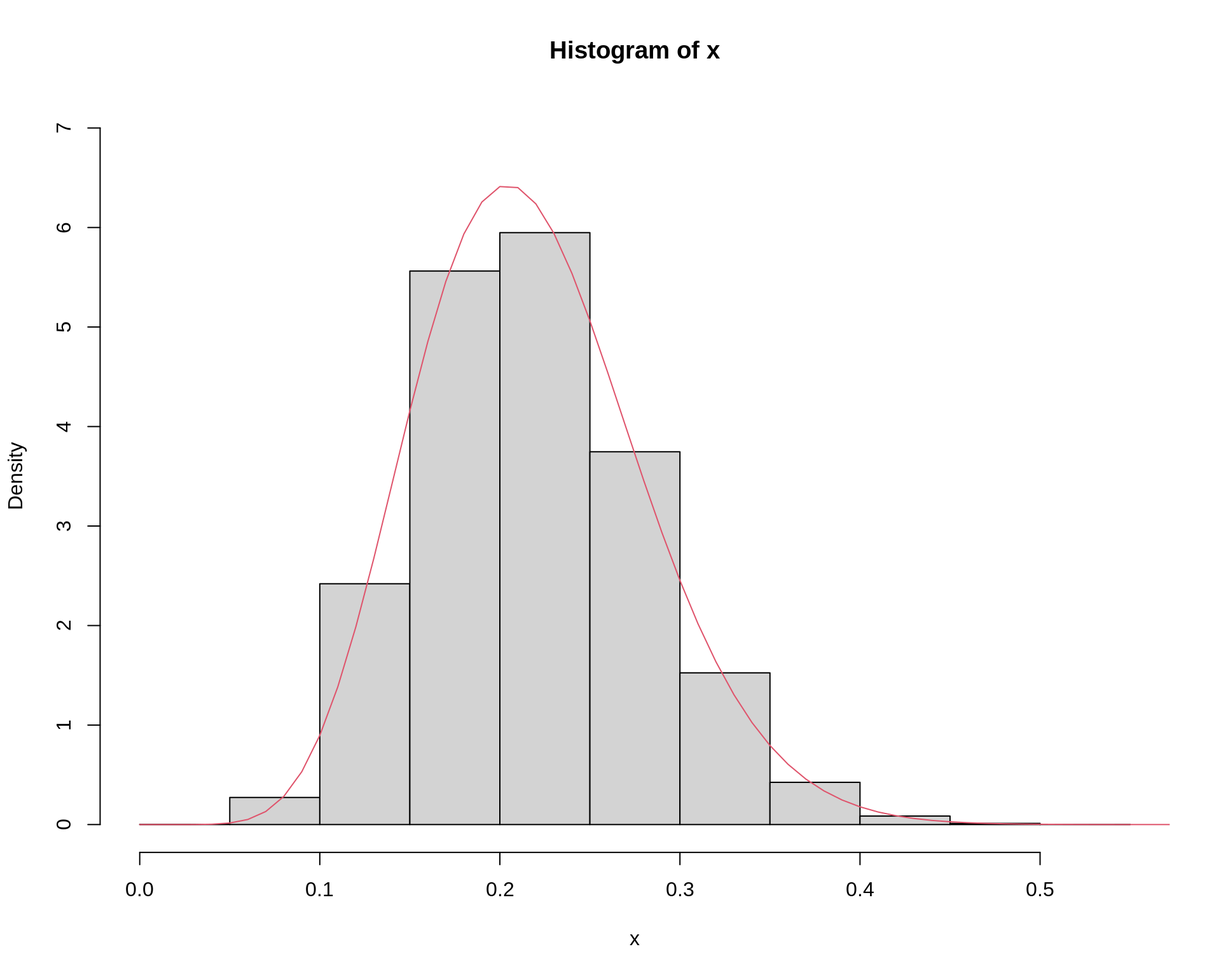
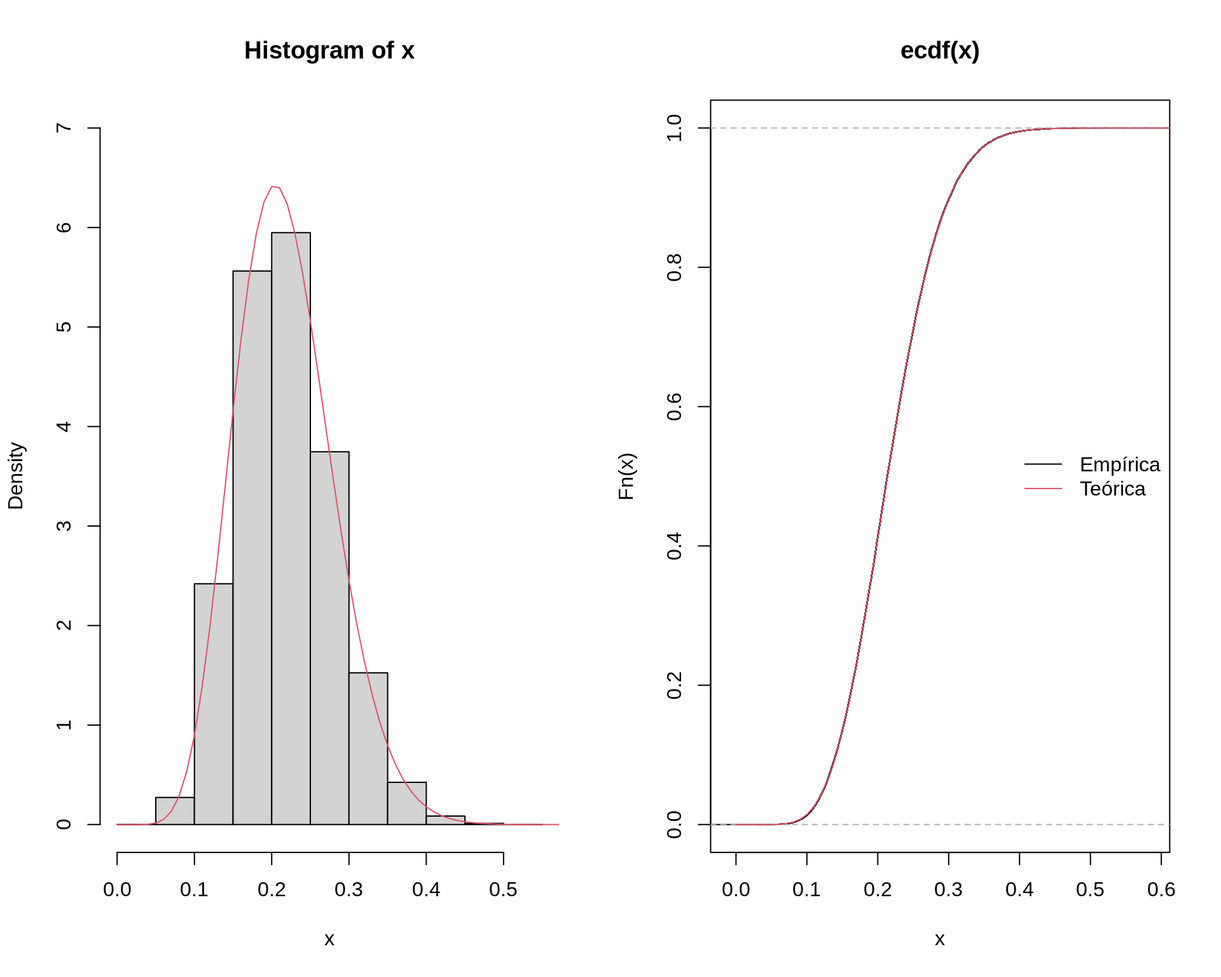
deploy: f7cb1217ea2a536413e76da58a42762f9a938bf3

diff --git a/07_MC_aprox.html b/07_MC_aprox.html
@@ -439,7 +439,7 @@ theta.hat &lt;- exp(-x)
 P[X&gt;2] = \int_2^{\infty} e^{-x} dx
 \]</span></p>
 <p>Nesse caso, a integração simples de Monte Carlo não é útil, pois não é possível que o limite de integração seja indefinido.</p>
-<p>Na verdade, podemos pensar em uma aproximação <strong>grosseira</strong>, supondo que vamos amostrar de <span class="math inline">\(X \sim \text{U}(2, \infty)\)</span>, onde podemos aproximar o valor de <span class="math inline">\(\infty\)</span> por um número grande. Por exemplo:</p>
+<p>Na verdade, <strong>poderíamos</strong> pensar em uma aproximação <strong>grosseira</strong>, supondo que vamos amostrar de <span class="math inline">\(X \sim \text{U}(2, \infty)\)</span>, onde podemos aproximar o valor de <span class="math inline">\(\infty\)</span> por um número grande. Por exemplo:</p>
 <pre class="r"><code>## Obtem m valores da U(2,Inf)
 m &lt;- 10000
 a &lt;- 2; b &lt;- 1e5
@@ -455,7 +455,7 @@ theta.hat &lt;- exp(-x)
 <pre class="r"><code>## Usando a exponencial
 pexp(2, 1, lower.tail = FALSE)</code></pre>
 <pre><code># [1] 0.1353353</code></pre>
-<p>Note que o valor estimado nesse caso está longe do velor correto, pois estamos adotando um procedimento completamente arbitrário.</p>
+<p>Note que o valor estimado nesse caso está longe do velor correto, pois estamos adotando um procedimento <strong>completamente arbitrário</strong>.</p>
 </div>
 <div id="exemplo-beta" class="section level3">
 <h3><span class="header-section-number">1.1.2</span> Exemplo (beta)</h3>
@@ -496,12 +496,12 @@ pbeta(0.2, a, b, lower.tail = FALSE)</code></pre>
 <div id="distribuições-aproximadas" class="section level1">
 <h1><span class="header-section-number">2</span> Distribuições aproximadas</h1>
 <p>Note que nos dois exemplos acima, para cada problema de cálculo de probabilidades (integrais), precisamos aplicar o método de Monte Carlo.</p>
-<p>No entanto, suponha que precisamos fazer diversos cálculos sob uma determinada VA. Ao invés de aplicar esse método para cada cálculo, podemos pensar que seria mais fácil se pudessemos obter uma amostra da distribuição de interesse. A partir desta distribuição, qualquer cálculo necessário pode ser derivado facilmente.</p>
-<p>Essa é a ideia dos métodos a seguir. O primeiro deles, a amostragem por aceitação-rejeição já foi visto no contexto de geração de números aleatórios. A mesma ideia será usada aqui, mas agora usaremos a amostra gerada da distribuição de interesse para resolver problemas de integração.</p>
-<p>O segundo método, o de re-amostragem por importância, pode ser visto como uma extensão do método de amostragem por importância, que vimos no contexto de generalização do método simples de integração de Monte Carlo. Nesse caso, usaremos as mesmas ideias para gerar uma amostra da distribuição de interesse, e não apenas resolver uma integral.</p>
+<p>No entanto, suponha que precisamos fazer diversos cálculos sob uma determinada VA. Ao invés de aplicar esse método para cada cálculo, podemos pensar que seria mais fácil se pudessemos obter uma <strong>amostra</strong> da distribuição de interesse. A partir desta <strong>distribuição</strong>, qualquer cálculo necessário pode ser derivado facilmente.</p>
+<p>Essa é a ideia dos métodos a seguir. O primeiro deles, a amostragem por <strong>aceitação-rejeição</strong> já foi visto no contexto de geração de números aleatórios. A mesma ideia será usada aqui, mas agora <strong>usaremos a amostra gerada da distribuição de interesse para resolver problemas de integração</strong>.</p>
+<p>O segundo método, o de <strong>re-amostragem por importância</strong>, pode ser visto como uma extensão do método de amostragem por importância, que vimos no contexto de generalização do método simples de integração de Monte Carlo. Nesse caso, usaremos as mesmas ideias para <strong>gerar uma amostra da distribuição de interesse</strong>, e não apenas resolver uma integral.</p>
 <div id="amostragem-por-rejeição" class="section level2">
 <h2><span class="header-section-number">2.1</span> Amostragem por rejeição</h2>
-<p>A ideia inicial do método é exatamente igual ao que já foi visto anteriormente no contexto de geração de números aleatórios de uma distribuição alvo <span class="math inline">\(f\)</span>.</p>
+<p>A ideia inicial do método é exatamente <strong>igual ao que já foi visto anteriormente</strong> no contexto de geração de números aleatórios de uma distribuição alvo <span class="math inline">\(f\)</span>.</p>
 <p>O seguinte algoritmo permite gerar números aleatórios de uma distribuição de probabilidade caracterizada pela função densidade <span class="math inline">\(f\)</span>:</p>
 <ol style="list-style-type: decimal">
 <li>Gerar <span class="math inline">\(y\)</span> como sendo uma ocorrência da variável aleatória proveniente de uma distribuição com densidade <span class="math inline">\(g\)</span>, que “encapsula” a distribuição de <span class="math inline">\(f\)</span>.</li>
@@ -521,7 +521,7 @@ M \geq \max_x \frac{f(x)}{g(x)}
 <p><span class="math display">\[
 \theta = \int_2^4 e^{-x} dx
 \]</span></p>
-<p>Sabemos que a função acima é uma <span class="math inline">\(\text{Exp(1)}\)</span>. Ao invés de usar o método de integração de Monte Carlo, vamos obter uma amostra desta distribuição, e, com ela, calcularemos a integral desejada.</p>
+<p>Sabemos que a função acima é uma <span class="math inline">\(\text{Exp(1)}\)</span>. Ao invés de usar o método de integração de Monte Carlo, vamos <strong>obter uma amostra desta distribuição</strong>, e, com ela, calcularemos a integral desejada.</p>
 <p>Por simplificação, usaremos como distribuição proposta uma <span class="math inline">\(\text{Exp}(0.5)\)</span>. Nesse caso, obtemos o valor de <span class="math inline">\(M\)</span> como</p>
 <pre class="r"><code>(M &lt;- optimize(f = function(x) {dexp(x, 1)/dexp(x, .5)},
                interval = c(0, 50), maximum = TRUE)$objective)</code></pre>
@@ -540,7 +540,6 @@ g &lt;- function(x) dexp(x, 0.5)
 N &lt;- 1e5
 x &lt;- numeric(N)
 i &lt;- 1
-j &lt;- 1
 while(i &lt;= N) {
     y &lt;- rexp(1, 0.5)
     u &lt;- runif(1)
@@ -549,12 +548,19 @@ while(i &lt;= N) {
         x[i] &lt;- y
         i &lt;- i + 1
     }
-    j &lt;- j + 1
 }
+## Tamanho da amostra
 length(x)</code></pre>
 <pre><code># [1] 100000</code></pre>
-<pre class="r"><code>hist(x, freq = FALSE, ylim = c(0, 1))
-curve(dexp(x, 1), add = TRUE, from = 0, to = 10, col = 2)</code></pre>
+<pre class="r"><code>## Visualização da amostra
+par(mfrow = c(1, 2))
+hist(x, freq = FALSE, ylim = c(0, 1))
+curve(dexp(x, 1), add = TRUE, from = 0, to = 10, col = 2)
+plot(ecdf(x))
+curve(pexp(x, 1), add = TRUE, from = 0, to = 10, col = 2)
+legend(&quot;right&quot;, legend = c(&quot;Empírica&quot;, &quot;Teórica&quot;),
+       lty = 1, col = 1:2, bty = &quot;n&quot;)
+par(mfrow = c(1, 1))</code></pre>
 <p><img src="figures/07_MC_aprox/unnamed-chunk-9-1.png" width="80%" style="display: block; margin: auto;" /></p>
 <p>Como agora temos a distribuição completa da <span class="math inline">\(\text{Exp}(1)\)</span>, podemos obter qualquer probabilidade (ou integral) aproximada, simplesmente através das contagens de valores no intervalo especificado. Note que a integral da distribuição, ou seja, <span class="math inline">\(\int_0^{\infty} f(x) dx\)</span> deve fechar em <strong>aproximadamente</strong> 1:</p>
 <pre class="r"><code>sum(x &gt; 0 &amp; x &lt;= max(x))/N</code></pre>
@@ -586,7 +592,7 @@ I(X \leq x) =
 </div>
 <div id="exemplo-beta-1" class="section level3">
 <h3><span class="header-section-number">2.1.2</span> Exemplo (beta)</h3>
-<p>Voltando ao exemplo de <span class="math inline">\(X \sim \text{Beta}(a=9.39, b=33.67)\)</span>, queremos calcular <span class="math inline">\(P[0.3 &lt; X &lt; 0.5]\)</span>, mas agora através da obtenção de uma amostra completa desta distribuição.</p>
+<p>Voltando ao exemplo de <span class="math inline">\(X \sim \text{Beta}(a=9.39, b=33.67)\)</span>, queremos calcular <span class="math inline">\(P[0.3 &lt; X &lt; 0.5]\)</span>, mas agora através da obtenção de uma <strong>amostra completa desta distribuição</strong>.</p>
 <p>Usando o método de aceitação-rejeição, vamos usar como distribuição proposta uma <span class="math inline">\(\text{U}(0,1)\)</span>. Portanto:</p>
 <pre class="r"><code>a &lt;- 9.39; b &lt;- 33.67
 (M &lt;- optimize(f = function(x) {dbeta(x, a, b)/dunif(x)},
@@ -606,7 +612,6 @@ g &lt;- function(x) dunif(x)
 N &lt;- 1e5
 x &lt;- numeric(N)
 i &lt;- 1
-j &lt;- 1
 while(i &lt;= N) {
     y &lt;- runif(1)
     u &lt;- runif(1)
@@ -615,14 +620,22 @@ while(i &lt;= N) {
         x[i] &lt;- y
         i &lt;- i + 1
     }
-    j &lt;- j + 1
 }
+## Tamanho da amostra
 length(x)</code></pre>
 <pre><code># [1] 100000</code></pre>
-<pre class="r"><code>sum(x &gt;= 0 &amp; x &lt;= 1)/N</code></pre>
+<pre class="r"><code>## Integral
+sum(x &gt;= 0 &amp; x &lt;= 1)/N</code></pre>
 <pre><code># [1] 1</code></pre>
-<pre class="r"><code>hist(x, freq = FALSE, ylim = c(0, 7))
-curve(dbeta(x, a, b), add = TRUE, from = 0, to = 1, col = 2)</code></pre>
+<pre class="r"><code>## Visualização da amostra
+par(mfrow = c(1, 2))
+hist(x, freq = FALSE,  ylim = c(0, 7))
+curve(dbeta(x, a,  b), add = TRUE, from = 0, to = 1, col = 2)
+plot(ecdf(x))
+curve(pbeta(x, a,  b), add = TRUE, from = 0, to = 1, col = 2)
+legend(&quot;right&quot;, legend = c(&quot;Empírica&quot;, &quot;Teórica&quot;),
+       lty = 1, col = 1:2, bty = &quot;n&quot;)
+par(mfrow = c(1, 1))</code></pre>
 <p><img src="figures/07_MC_aprox/unnamed-chunk-15-1.png" width="80%" style="display: block; margin: auto;" /></p>
 <p>Agora, podemos calcular qualquer probabilidade. Por exemplo:</p>
 <pre class="r"><code>## P[0.3 &lt; X &lt; 0.5]
@@ -639,10 +652,10 @@ sum(x &gt; 0.2)/N</code></pre>
 </div>
 <div id="re-amostragem-por-importância" class="section level2">
 <h2><span class="header-section-number">2.2</span> Re-amostragem por importância</h2>
-<p>O método de re-amostragem por importância (SIR - <em>Sampling Importance Resampling</em>) é uma alternativa ao método de aceitação-rejeição quando não é possível determinar um valor razoável para <span class="math inline">\(M\)</span>. A essência do algoritmo é amostrar valores segundo pesos que são computados para cada um deles.</p>
-<p>Veremos que o método nada mais é do que uma extensão do método de amostragem por importância para aproximação de integrais. No entanto, o objetivo aqui também é obter a distribuição completa da densidade alvo, e, com isso, calcular quantidades de interesse.</p>
-<p>O método de re-amostragem por importância é também muito utilizado no contexto de inferência bayesiana, na obtenção de distribuições posteriores de parâmetros.</p>
-<p>Lembrando que, na amsotrgem por importância, temos o seguinte cenário. Suponha que <span class="math inline">\(X\)</span> seja uma VA com densidade <span class="math inline">\(f(x)\)</span>. Seja <span class="math inline">\(Y\)</span> a VA <span class="math inline">\(g(X)/f(X)\)</span>, então <span class="math display">\[
+<p>O método de re-amostragem por importância (SIR - <em>Sampling Importance Resampling</em>) é uma alternativa ao método de aceitação-rejeição <strong>quando não é possível determinar um valor razoável para</strong> <span class="math inline">\(M\)</span>. A essência do algoritmo é amostrar valores segundo pesos que são computados para cada um deles.</p>
+<p>Veremos que o método nada mais é do que uma <strong>extensão do método de amostragem por importância para aproximação de integrais</strong>. No entanto, o objetivo aqui também é obter a distribuição completa da densidade alvo, e, com isso, calcular quantidades de interesse.</p>
+<p>O método de re-amostragem por importância é também muito utilizado no contexto de <strong>inferência bayesiana</strong>, na obtenção de distribuições posteriores de parâmetros.</p>
+<p>Lembrando que, na <strong>amsotrgem por importância</strong>, temos o seguinte cenário. Suponha que <span class="math inline">\(X\)</span> seja uma VA com densidade <span class="math inline">\(f(x)\)</span>. Seja <span class="math inline">\(Y = g(X)/f(X)\)</span>, então <span class="math display">\[
 \int g(x) dx = \int \frac{g(x)}{f(x)} f(x) dx = \text{E}[Y]
 \]</span> Com isso, podemos estimar <span class="math inline">\(\text{E}[Y]\)</span> como uma integração simples de Monte Carlo, ou seja, <span class="math display">\[
 \frac{1}{m}\sum_{i=1}^{m} Y_i = \frac{1}{m}\sum_{i=1}^{m}
@@ -676,19 +689,24 @@ pexp(2, 1, lower.tail = FALSE)</code></pre>
 </div>
 <p>O algoritmo do método de <strong>re-amostragem por importância</strong> é uma extensão do algoritmo anterior e consiste nos seguintes passos:</p>
 <ol style="list-style-type: decimal">
-<li>(<em>Amostragem</em>) Gerar uma amostra de <span class="math inline">\(m\)</span> observações independentes da função de importância <span class="math inline">\(f(x)\)</span>, <span class="math inline">\(\{x_1, \ldots, x_m\}\)</span>.</li>
+<li>(<strong>Amostragem</strong>) Gerar uma amostra de <span class="math inline">\(m\)</span> observações independentes da função de importância <span class="math inline">\(f(x)\)</span>, <span class="math inline">\(\{x_1, \ldots, x_m\}\)</span>.</li>
 <li>Calcular os <strong>pesos</strong> <span class="math display">\[
 w(x_i) = \frac{g(x_i)}{f(x_i)}
 \]</span> Os pesos dão uma ideia da probabilidade de aceitação de um determinado <span class="math inline">\(x_i\)</span>. Como estes pesos podem ser maiores do que 1, eles precisam ser padronizados por <span class="math display">\[
 w^*(x_i) = \frac{w(x_i)}{\sum_{i=1}^m w(x_i)}
 \]</span></li>
-<li>(<em>Re-amostragem por importância</em>) Amostrar <strong>com reposição</strong> <span class="math inline">\(k &lt; m\)</span> valores de <span class="math inline">\(\{x_1, \ldots, x_m\}\)</span>, utilizando os pesos <span class="math inline">\(\{w^*(x_1), \ldots, w^*(x_m)\}\)</span>, como uma <strong>distribuição discreta de probabilidades</strong>.</li>
+<li>(<strong>Re-amostragem por importância</strong>) Amostrar <strong>com reposição</strong> <span class="math inline">\(k &lt; m\)</span> valores de <span class="math inline">\(\{x_1, \ldots, x_m\}\)</span>, utilizando os pesos <span class="math inline">\(\{w^*(x_1), \ldots, w^*(x_m)\}\)</span>, como uma <strong>distribuição discreta de probabilidades</strong>.</li>
 </ol>
 <p>Dessa forma, <span class="math inline">\(\mathcal{X} = \{x^*_1, \ldots, x^*_k\}\)</span> será uma amostra de <span class="math inline">\(g(X)\)</span>.</p>
 <div id="exemplo-exponencial-2" class="section level3">
 <h3><span class="header-section-number">2.2.1</span> Exemplo (exponencial)</h3>
 <p>Seguindo com o exemplo da <span class="math inline">\(\text{Exp}(1)\)</span>, o código abaixo serve para gerar uma amostra por importância desta distribuição.</p>
-<p>A função de importância considerada aqui é uma <span class="math inline">\(\text{Exp}(0.5)\)</span>. Lembre-se que nesse caso, não é necessário que a função proposta seja maior do que a função alvo.</p>
+<p>A função de importância considerada aqui é uma <span class="math inline">\(\text{Exp}(0.5)\)</span>. Lembre-se que nesse caso, <strong>não é necessário que a função proposta seja maior do que a função alvo</strong>.</p>
+<pre class="r"><code>curve(dexp(x, 1), from = 0, to = 10, col = 4)
+curve(dexp(x,  0.5), from = 0, to = 10, add = TRUE, lty = 2)
+legend(&quot;right&quot;, legend = c(&quot;g(x)&quot;, &quot;f(x)&quot;),
+       lty = c(1, 2), col = c(4, 1), bty = &quot;n&quot;)</code></pre>
+<p><img src="figures/07_MC_aprox/unnamed-chunk-18-1.png" width="80%" style="display: block; margin: auto;" /></p>
 <pre class="r"><code>## Define funções
 g &lt;- function(x) exp(-x) * (x &gt;= 0)
 f &lt;- function(x) dexp(x, 0.5)
@@ -702,13 +720,29 @@ w.norm &lt;- w/sum(w)
 k &lt;- 1e4
 ## Amostra considerando os pesos normalizados para cada X
 g.sample &lt;- sample(x, size = k, replace = TRUE, prob = w.norm)
-## Verifica a distribuição da amostra
-hist(g.sample, freq = FALSE, ylim = c(0, 1))
-curve(dexp(x, 1), add = TRUE, from = 0, to = 10, col = 2)</code></pre>
-<p><img src="figures/07_MC_aprox/unnamed-chunk-18-1.png" width="80%" style="display: block; margin: auto;" /></p>
-<p>É possível ver porque o método funciona quando vemos um gráfico dos valoreas amostrados de <span class="math inline">\(X\)</span> com seus respectivos pesos:</p>
-<pre class="r"><code>plot(x, w.norm)</code></pre>
+## Tamanho da amostra
+length(g.sample)</code></pre>
+<pre><code># [1] 10000</code></pre>
+<pre class="r"><code>## Integral
+sum(g.sample &gt; 0 &amp; g.sample &lt; max(g.sample))/k</code></pre>
+<pre><code># [1] 0.9999</code></pre>
+<pre class="r"><code>## Visualização da amostra
+par(mfrow = c(1, 2))
+hist(g.sample, freq = FALSE)
+curve(dexp(x, 1), add = TRUE, from = 0, to = 10, col = 2)
+plot(ecdf(g.sample))
+curve(pexp(x, 1), add = TRUE, from = 0, to = 10, col = 2)
+legend(&quot;right&quot;, legend = c(&quot;Empírica&quot;, &quot;Teórica&quot;),
+       lty = 1, col = 1:2, bty = &quot;n&quot;)</code></pre>
 <p><img src="figures/07_MC_aprox/unnamed-chunk-19-1.png" width="80%" style="display: block; margin: auto;" /></p>
+<pre class="r"><code>par(mfrow = c(1, 1))</code></pre>
+<p>É possível ver porque o método funciona quando vemos um gráfico dos valoreas amostrados de <span class="math inline">\(X\)</span> com seus respectivos pesos:</p>
+<pre class="r"><code>curve(dexp(x, 1), from = 0, to = 10, col = 4,  ylim = c(0, 2))
+curve(dexp(x,  0.5), from = 0, to = 10, add = TRUE, lty = 2)
+legend(&quot;right&quot;, legend = c(&quot;f(x)&quot;, &quot;g(x)&quot;),
+       lty = c(1, 2), col = c(4, 1), bty = &quot;n&quot;)
+points(x, w)</code></pre>
+<p><img src="figures/07_MC_aprox/unnamed-chunk-20-1.png" width="80%" style="display: block; margin: auto;" /></p>
 <p>Com uma amostra completa da distribuição, podemos então calcular qualquer tipo de probabilidades:</p>
 <pre class="r"><code>## P[2 &lt; X &lt; 4]
 sum(g.sample &gt;= 2 &amp; g.sample &lt;= 4)/k</code></pre>
@@ -725,8 +759,13 @@ sum(g.sample &gt; 2)/k</code></pre>
 <div id="exemplo-beta-2" class="section level3">
 <h3><span class="header-section-number">2.2.2</span> Exemplo (beta)</h3>
 <p>Voltando ao exemplo de <span class="math inline">\(X \sim \text{Beta}(a=9.39, b=33.67)\)</span>, vamos ober uma amostra desta distribuição pelo método de re-amostragem por importância. Aqui também utilizaremos uma <span class="math inline">\(\text{U}(0,1)\)</span> como função de importância.</p>
+<pre class="r"><code>a &lt;- 9.39; b &lt;- 33.67
+curve(dbeta(x, a,  b), from = 0, to = 1, col = 4)
+curve(dunif(x, 0, 1), from = 0, to = 1, add = TRUE, lty = 2)
+legend(&quot;right&quot;, legend = c(&quot;g(x)&quot;, &quot;f(x)&quot;),
+       lty = c(1, 2), col = c(4, 1), bty = &quot;n&quot;)</code></pre>
+<p><img src="figures/07_MC_aprox/unnamed-chunk-23-1.png" width="80%" style="display: block; margin: auto;" /></p>
 <pre class="r"><code>## Define funções
-a &lt;- 9.39; b &lt;- 33.67
 g &lt;- function(x, a, b) dbeta(x, a, b)
 f &lt;- function(x) dunif(x) # usando U(0,1)
 ## 1. Amostragem
@@ -739,13 +778,30 @@ w.norm &lt;- w/sum(w)
 k &lt;- 1e4
 ## Amostra considerando os pesos normalizados para cada X
 g.sample &lt;- sample(x, size = k, replace = TRUE, prob = w.norm)
-## Verifica a distribuição da amostra
-hist(g.sample, freq = FALSE, ylim = c(0, 7))
-curve(dbeta(x, a, b), add = TRUE, from = 0, to = 1, col = 2)</code></pre>
-<p><img src="figures/07_MC_aprox/unnamed-chunk-22-1.png" width="80%" style="display: block; margin: auto;" /></p>
+## Tamanho da amostra
+length(g.sample)</code></pre>
+<pre><code># [1] 10000</code></pre>
+<pre class="r"><code>## Integral
+sum(g.sample &gt; 0 &amp; g.sample &lt; 1)/k</code></pre>
+<pre><code># [1] 1</code></pre>
+<pre class="r"><code>## Visualização da amostra
+par(mfrow = c(1, 2))
+hist(g.sample, freq = FALSE,  ylim = c(0, 7))
+curve(dbeta(x, a,  b), add = TRUE, from = 0, to = 1, col = 2)
+plot(ecdf(g.sample))
+curve(pbeta(x, a, b), add = TRUE, from = 0, to = 1, col = 2)
+legend(&quot;right&quot;, legend = c(&quot;Empírica&quot;, &quot;Teórica&quot;),
+       lty = 1, col = 1:2, bty = &quot;n&quot;)</code></pre>
+<p><img src="figures/07_MC_aprox/unnamed-chunk-24-1.png" width="80%" style="display: block; margin: auto;" /></p>
+<pre class="r"><code>par(mfrow = c(1, 1))</code></pre>
 <p>Novamente podemos conferir a relação entre os valores amostrados de <span class="math inline">\(X\)</span> e seus respectivos pesos calculados:</p>
-<pre class="r"><code>plot(x, w.norm)</code></pre>
-<p><img src="figures/07_MC_aprox/unnamed-chunk-23-1.png" width="80%" style="display: block; margin: auto;" /></p>
+<pre class="r"><code>a &lt;- 9.39; b &lt;- 33.67
+curve(dbeta(x, a,  b), from = 0, to = 1, col = 4)
+curve(dunif(x, 0, 1), from = 0, to = 1, add = TRUE, lty = 2)
+legend(&quot;right&quot;, legend = c(&quot;f(x)&quot;, &quot;g(x)&quot;),
+       lty = c(1, 2), col = c(4, 1), bty = &quot;n&quot;)
+points(x, w)</code></pre>
+<p><img src="figures/07_MC_aprox/unnamed-chunk-25-1.png" width="80%" style="display: block; margin: auto;" /></p>
 <p>Calcula probabilidades:</p>
 <pre class="r"><code>## P[0.3 &lt; X &lt; 0.5]
 sum(g.sample &gt; 0.3 &amp; g.sample &lt; 0.5)/k</code></pre>

diff --git a/programacao.html b/programacao.html
@@ -778,7 +778,7 @@ st1 &lt;- system.time(
 )
 st1</code></pre>
 <pre><code>#    user  system elapsed 
-#   0.075   0.000   0.075</code></pre>
+#   0.079   0.000   0.079</code></pre>
 <pre class="r"><code>## Tempo de execução usando a regra da reciclagem
 st2 &lt;- system.time(
     y2 &lt;- x^2
@@ -786,7 +786,7 @@ st2 &lt;- system.time(
 st2</code></pre>
 <pre><code>#    user  system elapsed 
 #   0.002   0.000   0.002</code></pre>
-<p>Olhando o resultado de <code>elapsed</code>, que é o tempo total de execução de uma função medido por <code>system.time()</code>, notamos que usando a regra da reciclagem, o cálculo é aproximadamente 0.075/0.002 = 37.5 vezes mais rápido. Claramente esse é só um exemplo de um cálculo muito simples. Mas em situações mais complexas, a diferença entro o tempo de execução das duas formas pode ser muito maior.</p>
+<p>Olhando o resultado de <code>elapsed</code>, que é o tempo total de execução de uma função medido por <code>system.time()</code>, notamos que usando a regra da reciclagem, o cálculo é aproximadamente 0.079/0.002 = 39.5 vezes mais rápido. Claramente esse é só um exemplo de um cálculo muito simples. Mas em situações mais complexas, a diferença entro o tempo de execução das duas formas pode ser muito maior.</p>
 <div class="panel panel-primary">
 <div class="panel-heading">
 Uma nota de precaução

diff --git a/objetos-classes.html b/objetos-classes.html
@@ -1511,7 +1511,7 @@ class(vec)</code></pre>
 # 
 # function (x, ...) 
 # standardGeneric(&quot;mean&quot;)
-# &lt;environment: 0x558d9b7d6ff0&gt;
+# &lt;environment: 0x556c0221bf48&gt;
 # Methods may be defined for arguments: x
 # Use  showMethods(mean)  for currently available ones.</code></pre>
 <p>Agora veja o código fonte da função <code>mean.default</code>, que é o método específico para vetores numéricos</p>
@@ -1540,7 +1540,7 @@ class(vec)</code></pre>
 #     }
 #     .Internal(mean(x))
 # }
-# &lt;bytecode: 0x558d9c95cc28&gt;
+# &lt;bytecode: 0x556c01ed3430&gt;
 # &lt;environment: namespace:base&gt;</code></pre>
 <p>Agora suponha que você ddeseja criar uma função que calcule a média para um objeto de uma classe diferente daquelas previamente definidas. Por exemplo, suponha que você quer que a função <code>mean()</code> retorne a média das linhas de uma matriz.</p>
 <pre class="r"><code>set.seed(1)
@@ -1604,7 +1604,7 @@ class(dl)</code></pre>
 </div>
 <div id="informação-de-sessão" class="section level1">
 <h1><span class="header-section-number">11</span> Informação de Sessão</h1>
-<pre><code># Wednesday, 23 June, 2021, 22:00
+<pre><code># Thursday, 24 June, 2021, 02:11
 # ----------------------------------------
 # R version 4.1.0 (2021-05-18)
 # Platform: x86_64-pc-linux-gnu (64-bit)

diff --git a/05_RNG_transform.html b/05_RNG_transform.html
@@ -849,9 +849,9 @@ polarmethod(2)</code></pre>
 <p>Comparando os dois métodos vemos que, apesar do método polar não usar funções seno e cosseno, é necessário usar o <code>while()</code>, o que “encarece” o algoritmo computacionalemnte.</p>
 <pre class="r"><code>microbenchmark::microbenchmark(boxmuller(1000), polarmethod(1000))</code></pre>
 <pre><code># Unit: microseconds
-#               expr    min      lq     mean  median     uq    max neval cld
-#    boxmuller(1000)   64.6   68.15   72.308   71.65   75.0   91.0   100  a 
-#  polarmethod(1000) 2755.5 2908.40 3244.199 2952.20 3008.1 9010.9   100   b</code></pre>
+#               expr    min      lq     mean  median      uq    max neval cld
+#    boxmuller(1000)   60.1   76.45   80.098   79.45   82.10  119.6   100  a 
+#  polarmethod(1000) 2405.9 2995.05 3348.122 3117.25 3218.45 8584.2   100   b</code></pre>
 </div>
 <div id="a-função-rnorm" class="section level2">
 <h2><span class="header-section-number">4.4</span> A função <code>rnorm()</code></h2>

diff --git a/10_bootstrap.html b/10_bootstrap.html
@@ -712,7 +712,7 @@ obj</code></pre>
 #  $ seed     : int [1:626] 10403 432 1781087344 386800285 1300146352 -1043896737 -961725389 1610237524 1487280467 -2089005861 ...
 #  $ statistic:function (x, i)  
 #   ..- attr(*, &quot;srcref&quot;)= &#39;srcref&#39; int [1:8] 4 6 6 1 6 1 4 6
-#   .. ..- attr(*, &quot;srcfile&quot;)=Classes &#39;srcfilecopy&#39;, &#39;srcfile&#39; &lt;environment: 0x558d9f57bd60&gt; 
+#   .. ..- attr(*, &quot;srcfile&quot;)=Classes &#39;srcfilecopy&#39;, &#39;srcfile&#39; &lt;environment: 0x556c0d8ac0b0&gt; 
 #  $ sim      : chr &quot;ordinary&quot;
 #  $ call     : language boot(data = law, statistic = r, R = 2000)
 #  $ stype    : chr &quot;i&quot;
